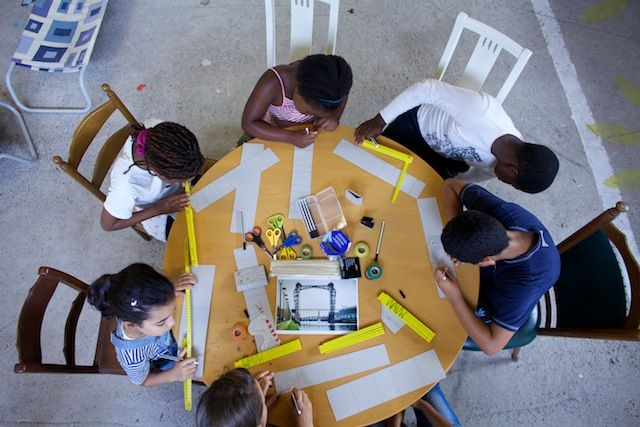
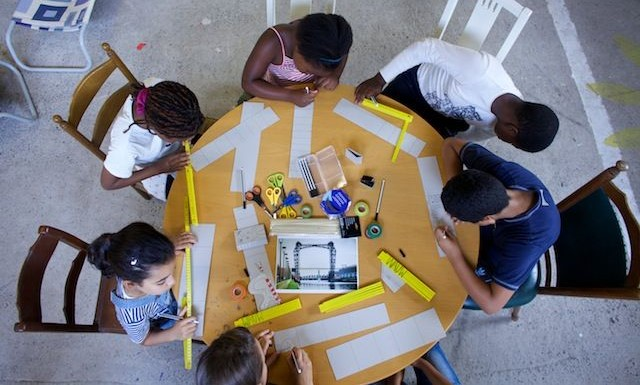
homepage vernieuwd

diff --git a/css/style.css b/css/style.css
@@ -1,5 +1,25 @@
 @import url('https://fonts.googleapis.com/css2?family=Source+Sans+Pro:wght@300&display=swap');
 
+body{
+    margin: 0px;
+}
+
+p{
+    font-family: 'Source Sans Pro', sans-serif;
+    font-weight: 600;
+
+}
+
+.knop{
+    font-family: 'Source Sans Pro', 'Sans-serif';
+    color: white;
+    text-decoration: none;
+    padding: 10px;
+    background-color: rgb(65,155,190);
+    border-radius: 50px;
+    border: white solid;
+}
+
 .navigationbar {
     display: flex;
     flex-wrap: wrap;
@@ -28,6 +48,7 @@ img {
 
 nav>a {
     font-family: 'Source Sans Pro', sans-serif;
+    font-weight: 300;
     text-decoration: none;
     color: black;
     margin-left: 10px;
@@ -35,14 +56,30 @@ nav>a {
 }
 
 h1 {
-    font-family: 'Source Sans Pro', sans-serif;
-    font-size: 20px;
+    font-family: 'in the know', sans-serif;
+    font-size: 40px;
+    margin: 0px;
 }
 
 section{
     display: flex;
     justify-content: center;
     flex-wrap: wrap;
+    height: 100%;
+    padding-top: 20px;
+    padding-bottom: 20px;
+}
+
+.oranje{
+    background-color: rgb(238,109,68);
+}
+
+.blauw{
+    background-color: rgb(65,155,190);
+}
+
+.geel{
+    background-color: rgb(240,198,84);
 }
 
 @media (min-width: 768px) {
@@ -52,29 +89,37 @@ section{
 
     .nav1{
         width: auto;
+        padding-left: 20px;
     }
 
     .nav2{
         width: auto;
+        padding-top: 20px;
     }
 
     nav>a {
         padding: 20px 30px 20px 30px;
     }
-    
+
     .wauwfoto{
         width: 66%;
+        height: fit-content;
     }
     
     .beschrijving{
-        width: 33%;
-        background-color: rgb(238,109,68);
+        width: 31%;
+        padding-left: 20px;
+    }
+
+    .kinderenaantafel{
+        width: 100%;
+        height: auto;
     }
 
 }
 
 @media (min-width: 1200px) {
-    .wrapper {
+    .wrapper{
         width: 1200px;
         margin: auto;
     }

diff --git a/index.html b/index.html
@@ -41,14 +41,17 @@
             </div>
         </div>
     </header>
-    <div class='outerwrapper'>
+    <div class='outerwrapper geel'>
         <div class='wrapper'>
             <section>
                 <div class='wauwfoto'>
-                    <img src='images/kinderenaantafel.jpeg'>
+                    <img class='kinderenaantafel' src='images/kinderenaantafel.jpeg'>
                 </div>
                 <div class='beschrijving'>
-                    <p>hallo</p>
+                    <h1>Workshops over architectuur voor jong en oud!</h1>
+                    <p>Heb jij er altijd van gedroomd om eens met architectuur te werken?</p>
+                    <a class='knop' href='adults.html'>Workshops volwassenen</a>
+                    <a class='knop' href='kids.html'>Workshops kinderen</a>
                 </div>
             </section>
         </div>
